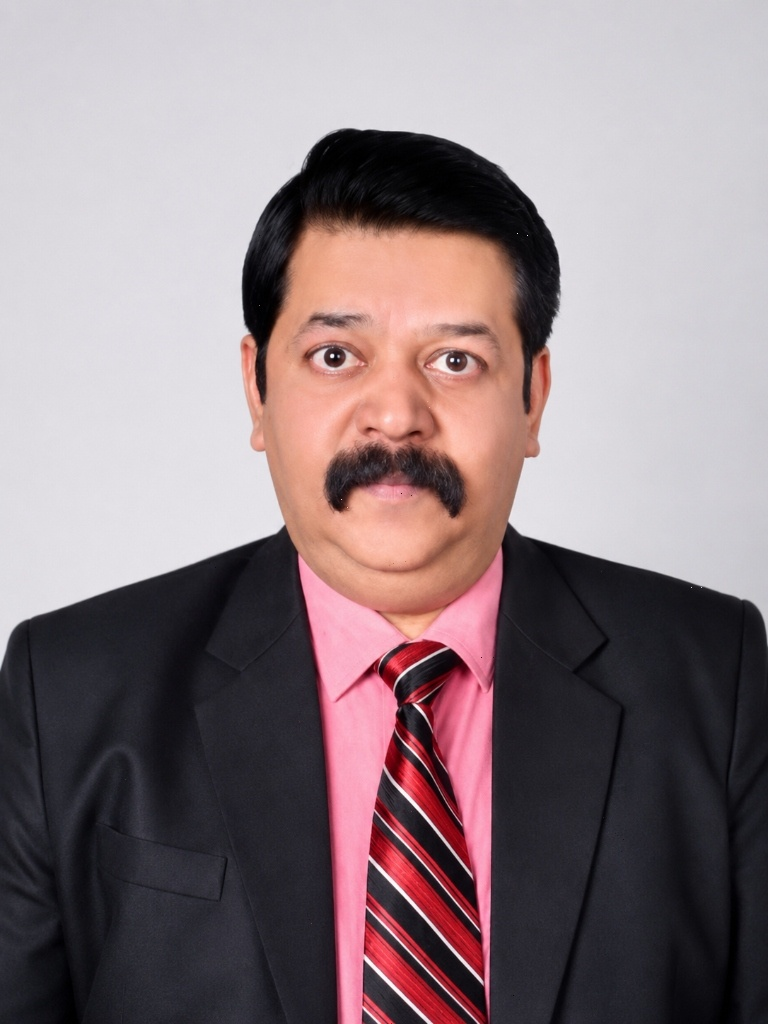
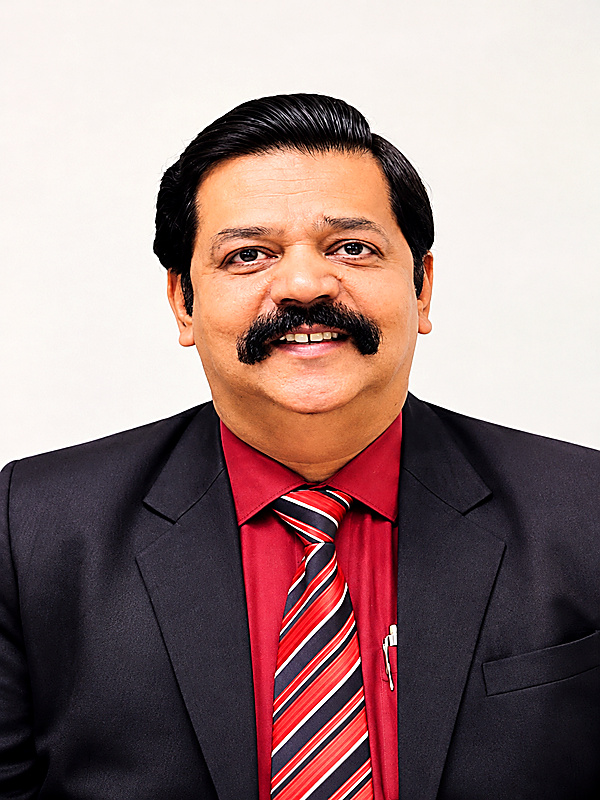
updated changes

diff --git a/Frontend/src/pages/ProductDetailPage.tsx b/Frontend/src/pages/ProductDetailPage.tsx
@@ -70,6 +70,17 @@ export const ProductDetailPage: React.FC = () => {
   // Active Tab for Accordion & Modal States
   const [openAccordion, setOpenAccordion] = useState<string | null>('details');
   const [showDossierModal, setShowDossierModal] = useState<boolean>(false);
+  const [showDownloadDoctorModal, setShowDownloadDoctorModal] = useState<boolean>(false);
+  const [downloadDoctorForm, setDownloadDoctorForm] = useState({
+    fullName: '',
+    email: '',
+    phone: '',
+    address: '',
+    specialization: '',
+    consentGiven: false
+  });
+  const [downloadDoctorError, setDownloadDoctorError] = useState<string>('');
+  const [isSubmittingDownloadDoctor, setIsSubmittingDownloadDoctor] = useState<boolean>(false);
   const [copiedLink, setCopiedLink] = useState<boolean>(false);
   const [hcpFormSubmitted, setHcpFormSubmitted] = useState<boolean>(false);
 
@@ -168,16 +179,61 @@ export const ProductDetailPage: React.FC = () => {
     setTimeout(() => setCopiedLink(false), 2000);
   };
 
-  // Download Clinical Dossier & Open Pop-Up Confirmation Modal
-  const handleDownloadDossier = (dossierUrl: string, fileName: string) => {
-    const link = document.createElement('a');
-    link.href = dossierUrl;
-    link.download = fileName;
-    document.body.appendChild(link);
-    link.click();
-    document.body.removeChild(link);
+  // Download Clinical Dossier after the doctor profile is saved successfully.
+  const handleDownloadDossier = async () => {
+    setDownloadDoctorError('');
+    setShowDownloadDoctorModal(true);
+  };
 
-    setDownloadedDossierModal(true);
+  const submitDoctorDownload = async (event: React.FormEvent<HTMLFormElement>) => {
+    event.preventDefault();
+    if (!sku.dossier) return;
+
+    setDownloadDoctorError('');
+    setIsSubmittingDownloadDoctor(true);
+    try {
+      const response = await fetch(
+        `${import.meta.env.VITE_API_URL || 'http://localhost:5000/api'}/doctors/downloads`,
+        {
+          method: 'POST',
+          headers: { 'Content-Type': 'application/json' },
+          body: JSON.stringify({
+            ...downloadDoctorForm,
+            productId: sku.id,
+            productTitle: sku.title,
+            fileName: sku.dossier.fileName,
+            fileUrl: sku.dossier.fileUrl
+          })
+        }
+      );
+
+      if (!response.ok) {
+        const errorBody = await response.json().catch(() => null);
+        throw new Error(errorBody?.message || 'Unable to save your details. Please try again.');
+      }
+
+      const link = document.createElement('a');
+      link.href = sku.dossier.fileUrl;
+      link.download = sku.dossier.fileName;
+      document.body.appendChild(link);
+      link.click();
+      document.body.removeChild(link);
+
+      setShowDownloadDoctorModal(false);
+      setDownloadDoctorForm({
+        fullName: '',
+        email: '',
+        phone: '',
+        address: '',
+        specialization: '',
+        consentGiven: false
+      });
+      setDownloadedDossierModal(true);
+    } catch (error) {
+      setDownloadDoctorError(error instanceof Error ? error.message : 'Unable to save your details. Please try again.');
+    } finally {
+      setIsSubmittingDownloadDoctor(false);
+    }
   };
 
   // Toggle Accordion
@@ -443,7 +499,7 @@ export const ProductDetailPage: React.FC = () => {
                   {sku.dossier ? (
                     <div className="flex items-center justify-between gap-3">
                       <button
-                        onClick={() => handleDownloadDossier(sku.dossier!.fileUrl, sku.dossier!.fileName)}
+                        onClick={handleDownloadDossier}
                         className="flex-1 py-3.5 px-5 rounded-2xl bg-emerald-400 hover:bg-emerald-300 text-emerald-950 text-xs font-extrabold flex items-center justify-center gap-2 transition-all shadow-md hover:scale-[1.02] active:scale-[0.98] cursor-pointer"
                       >
                         <Download className="w-4 h-4" />
@@ -1214,6 +1270,104 @@ export const ProductDetailPage: React.FC = () => {
       </AnimatePresence>
 
       {/* ========================================================================= */}
+      {/* DOCTOR DETAILS REQUIRED BEFORE DOWNLOAD */}
+      {/* ========================================================================= */}
+      <AnimatePresence>
+        {showDownloadDoctorModal && sku.dossier && (
+          <div className="fixed inset-0 z-50 flex items-center justify-center p-4 bg-black/60 backdrop-blur-sm">
+            <motion.div
+              initial={{ scale: 0.9, opacity: 0 }}
+              animate={{ scale: 1, opacity: 1 }}
+              exit={{ scale: 0.9, opacity: 0 }}
+              className="bg-white rounded-[32px] p-6 sm:p-8 max-w-lg w-full border border-slate-200 shadow-2xl relative"
+            >
+              <button
+                type="button"
+                onClick={() => setShowDownloadDoctorModal(false)}
+                className="absolute top-5 right-5 p-2 rounded-full bg-slate-100 hover:bg-slate-200 text-slate-600 transition-colors cursor-pointer"
+                aria-label="Close download form"
+              >
+                <X className="w-4 h-4" />
+              </button>
+              <span className="px-3 py-1 rounded-full bg-emerald-100 text-[#0b835c] text-[10px] font-bold tracking-wider uppercase">
+                DOCTOR DETAILS REQUIRED
+              </span>
+              <h3 className="text-2xl font-bold text-[#1c1c1e] mt-2">Download Clinical Dossier</h3>
+              <p className="text-xs text-slate-500 mt-1 mb-5">
+                Please provide your details to access {sku.dossier.title}.
+              </p>
+
+              <form onSubmit={submitDoctorDownload} className="space-y-3.5">
+                <input
+                  type="text"
+                  required
+                  value={downloadDoctorForm.fullName}
+                  onChange={(event) => setDownloadDoctorForm({ ...downloadDoctorForm, fullName: event.target.value })}
+                  placeholder="Full name *"
+                  className="w-full px-4 py-3 rounded-xl bg-slate-50 text-xs border border-slate-200 focus:outline-none focus:border-[#0b835c]"
+                />
+                <input
+                  type="email"
+                  required
+                  value={downloadDoctorForm.email}
+                  onChange={(event) => setDownloadDoctorForm({ ...downloadDoctorForm, email: event.target.value })}
+                  placeholder="Email address *"
+                  className="w-full px-4 py-3 rounded-xl bg-slate-50 text-xs border border-slate-200 focus:outline-none focus:border-[#0b835c]"
+                />
+                <input
+                  type="tel"
+                  required
+                  value={downloadDoctorForm.phone}
+                  onChange={(event) => setDownloadDoctorForm({ ...downloadDoctorForm, phone: event.target.value })}
+                  placeholder="Phone number *"
+                  className="w-full px-4 py-3 rounded-xl bg-slate-50 text-xs border border-slate-200 focus:outline-none focus:border-[#0b835c]"
+                />
+                <textarea
+                  required
+                  value={downloadDoctorForm.address}
+                  onChange={(event) => setDownloadDoctorForm({ ...downloadDoctorForm, address: event.target.value })}
+                  placeholder="Address *"
+                  rows={2}
+                  className="w-full px-4 py-3 rounded-xl bg-slate-50 text-xs border border-slate-200 focus:outline-none focus:border-[#0b835c] resize-none"
+                />
+                <input
+                  type="text"
+                  required
+                  value={downloadDoctorForm.specialization}
+                  onChange={(event) => setDownloadDoctorForm({ ...downloadDoctorForm, specialization: event.target.value })}
+                  placeholder="Medical specialization *"
+                  className="w-full px-4 py-3 rounded-xl bg-slate-50 text-xs border border-slate-200 focus:outline-none focus:border-[#0b835c]"
+                />
+                <label className="flex items-start gap-2 text-[11px] text-slate-600 leading-relaxed">
+                  <input
+                    type="checkbox"
+                    required
+                    checked={downloadDoctorForm.consentGiven}
+                    onChange={(event) => setDownloadDoctorForm({ ...downloadDoctorForm, consentGiven: event.target.checked })}
+                    className="mt-0.5 accent-[#0b835c]"
+                  />
+                  <span>I agree that Varuta Pharma may store these details and contact me about relevant products and clinical information.</span>
+                </label>
+                {downloadDoctorError && (
+                  <p role="alert" className="text-xs text-red-600 bg-red-50 border border-red-200 rounded-xl px-3 py-2">
+                    {downloadDoctorError}
+                  </p>
+                )}
+                <button
+                  type="submit"
+                  disabled={isSubmittingDownloadDoctor}
+                  className="w-full py-3.5 rounded-2xl bg-[#0b835c] hover:bg-[#086849] disabled:opacity-60 text-white text-xs font-bold flex items-center justify-center gap-2 transition-all cursor-pointer shadow-md"
+                >
+                  <span>{isSubmittingDownloadDoctor ? 'Saving details...' : 'Submit & Download Dossier'}</span>
+                  <Download className="w-4 h-4 text-emerald-200" />
+                </button>
+              </form>
+            </motion.div>
+          </div>
+        )}
+      </AnimatePresence>
+
+      {/* ========================================================================= */}
       {/* HCP DOSSIER & SAMPLE PACK REQUEST MODAL */}
       {/* ========================================================================= */}
       <AnimatePresence>
@@ -1408,7 +1562,7 @@ export const ProductDetailPage: React.FC = () => {
                 </a>
 
                 <button
-                  onClick={() => handleDownloadDossier(sku.dossier!.fileUrl, sku.dossier!.fileName)}
+                  onClick={handleDownloadDossier}
                   className="px-5 py-3.5 rounded-full bg-slate-100 hover:bg-slate-200 text-slate-700 text-xs font-bold transition-all cursor-pointer flex items-center justify-center gap-1.5"
                 >
                   <Download className="w-3.5 h-3.5" />

diff --git a/Backend/src/routes/doctorData.js b/Backend/src/routes/doctorData.js
@@ -1,0 +1,103 @@
+const express = require('express');
+const DoctorData = require('../models/DoctorData');
+
+const router = express.Router();
+
+const requiredFields = ['fullName', 'email', 'phone', 'address', 'specialization'];
+
+router.post('/downloads', async (req, res) => {
+  try {
+    const {
+      fullName,
+      email,
+      phone,
+      address,
+      specialization,
+      consentGiven,
+      productId,
+      productTitle,
+      fileName,
+      fileUrl
+    } = req.body;
+
+    if (
+      requiredFields.some((field) => typeof req.body[field] !== 'string' || !req.body[field].trim()) ||
+      typeof consentGiven !== 'boolean' ||
+      !consentGiven ||
+      [productId, productTitle, fileName, fileUrl].some((field) => typeof field !== 'string' || !field.trim())
+    ) {
+      return res.status(400).json({ message: 'All required doctor and document details must be provided.' });
+    }
+
+    const normalizedEmail = email.trim().toLowerCase();
+    const download = {
+      productId: productId.trim(),
+      productTitle: productTitle.trim(),
+      fileName: fileName.trim(),
+      fileUrl: fileUrl.trim(),
+      downloadedAt: new Date()
+    };
+
+    const doctor = await DoctorData.findOneAndUpdate(
+      { email: normalizedEmail },
+      {
+        $set: {
+          fullName: fullName.trim(),
+          phone: phone.trim(),
+          address: address.trim(),
+          specialization: specialization.trim(),
+          consentGiven: true
+        },
+        $push: { downloadedDocuments: download }
+      },
+      { new: true, upsert: true, runValidators: true, setDefaultsOnInsert: true }
+    );
+
+    res.status(201).json({ id: doctor._id });
+  } catch (error) {
+    console.error('Unable to save doctor document download:', error);
+    res.status(500).json({ message: 'Unable to save your details. Please try again.' });
+  }
+});
+
+router.get('/export.csv', async (req, res) => {
+  const expectedToken = process.env.ADMIN_EXPORT_TOKEN;
+  const authorization = req.get('authorization') || '';
+
+  if (!expectedToken || authorization !== `Bearer ${expectedToken}`) {
+    return res.status(401).json({ message: 'Unauthorized.' });
+  }
+
+  try {
+    const doctors = await DoctorData.find().sort({ createdAt: -1 }).lean();
+    const rows = [
+      ['Full Name', 'Email', 'Phone', 'Address', 'Specialization', 'Consent Given', 'Downloaded Documents', 'Created At', 'Updated At'],
+      ...doctors.map((doctor) => [
+        doctor.fullName,
+        doctor.email,
+        doctor.phone,
+        doctor.address,
+        doctor.specialization,
+        doctor.consentGiven ? 'Yes' : 'No',
+        doctor.downloadedDocuments
+          .map((document) => `${document.productTitle} - ${document.fileName} - ${new Date(document.downloadedAt).toISOString()}`)
+          .join('; '),
+        doctor.createdAt.toISOString(),
+        doctor.updatedAt.toISOString()
+      ])
+    ];
+    const csv = rows
+      .map((row) => row.map((value) => `"${String(value).replace(/"/g, '""')}"`).join(','))
+      .join('\r\n');
+
+    res
+      .type('text/csv')
+      .set('Content-Disposition', 'attachment; filename="doctors-data.csv"')
+      .send(csv);
+  } catch (error) {
+    console.error('Unable to export doctor data:', error);
+    res.status(500).json({ message: 'Unable to export doctor data.' });
+  }
+});
+
+module.exports = router;

diff --git a/Frontend/src/pages/AboutPage.tsx b/Frontend/src/pages/AboutPage.tsx
@@ -94,8 +94,8 @@ export const AboutPage: React.FC = () => {
       name: 'Mr. Ashutosh Sharma',
       role: 'Former Executive Director',
       period: '4th July 2025 – 4th Dec 2025',
-      bio: "Over the past three decades, Mr. Ashutosh Sharma has held senior leadership positions with some of India's most respected pharmaceutical companies—including Zenith Drugs, Morepen Laboratories, NATCO Pharma, Cadila Pharmaceuticals, Torrent Pharmaceuticals, Abbott Healthcare, and Alembic. His experience spans the complete commercial value chain: sales & marketing, business development, portfolio commercialization, enterprise P&L leadership, business transformation, and international expansion across APAC, Africa, MENA, CIS, LATAM, and other emerging markets.",
-      image: '/ashutosh-sharma.jpg',
+      bio: "Over the past three decades, Mr. Ashutosh Sharma has held senior leadership positions with some of India's most respected pharmaceutical companies—including, Morepen Laboratories, NATCO Pharma, Cadila Pharmaceuticals, Torrent Pharmaceuticals, Abbott Healthcare, and Alembic. His experience spans the complete commercial value chain: sales & marketing, business development, portfolio commercialization, enterprise P&L leadership, business transformation, and international expansion across APAC, Africa, MENA, CIS, LATAM, and other emerging markets.",
+      image: '/ashutosh-sharma.png',
       achievements: [
         'Served as Executive Director at Varuta Pharma Pvt. Ltd., building the commercial foundation, operating framework, GTM strategy, and governance structure for domestic and international markets.',
         'Established a pilot pharmaceutical launch across four South Indian states while simultaneously building commercial, distribution & operating frameworks across West, Central, and East Africa.',

diff --git a/Backend/src/models/DoctorData.js b/Backend/src/models/DoctorData.js
@@ -1,0 +1,29 @@
+const mongoose = require('mongoose');
+
+const downloadedDocumentSchema = new mongoose.Schema(
+  {
+    productId: { type: String, required: true },
+    productTitle: { type: String, required: true },
+    fileName: { type: String, required: true },
+    fileUrl: { type: String, required: true },
+    downloadedAt: { type: Date, default: Date.now }
+  },
+  { _id: false }
+);
+
+const doctorDataSchema = new mongoose.Schema(
+  {
+    fullName: { type: String, required: true, trim: true },
+    email: { type: String, required: true, trim: true, lowercase: true },
+    phone: { type: String, required: true, trim: true },
+    address: { type: String, required: true, trim: true },
+    specialization: { type: String, required: true, trim: true },
+    consentGiven: { type: Boolean, required: true },
+    downloadedDocuments: { type: [downloadedDocumentSchema], default: [] }
+  },
+  { timestamps: true, collection: 'DOCTORS_DATA' }
+);
+
+doctorDataSchema.index({ email: 1 }, { unique: true });
+
+module.exports = mongoose.model('DoctorData', doctorDataSchema);

diff --git a/Backend/src/server.js b/Backend/src/server.js
@@ -4,6 +4,7 @@ const helmet = require('helmet');
 const morgan = require('morgan');
 const dotenv = require('dotenv');
 const connectDB = require('./config/db');
+const doctorDataRoutes = require('./routes/doctorData');
 
 // Load environment variables
 dotenv.config();
@@ -19,6 +20,7 @@ app.use(helmet());
 app.use(cors({ origin: process.env.CLIENT_URL || 'http://localhost:5173', credentials: true }));
 app.use(express.json());
 app.use(morgan('dev'));
+app.use('/api/doctors', doctorDataRoutes);
 
 // Health check endpoint
 app.get('/api/health', (req, res) => {
